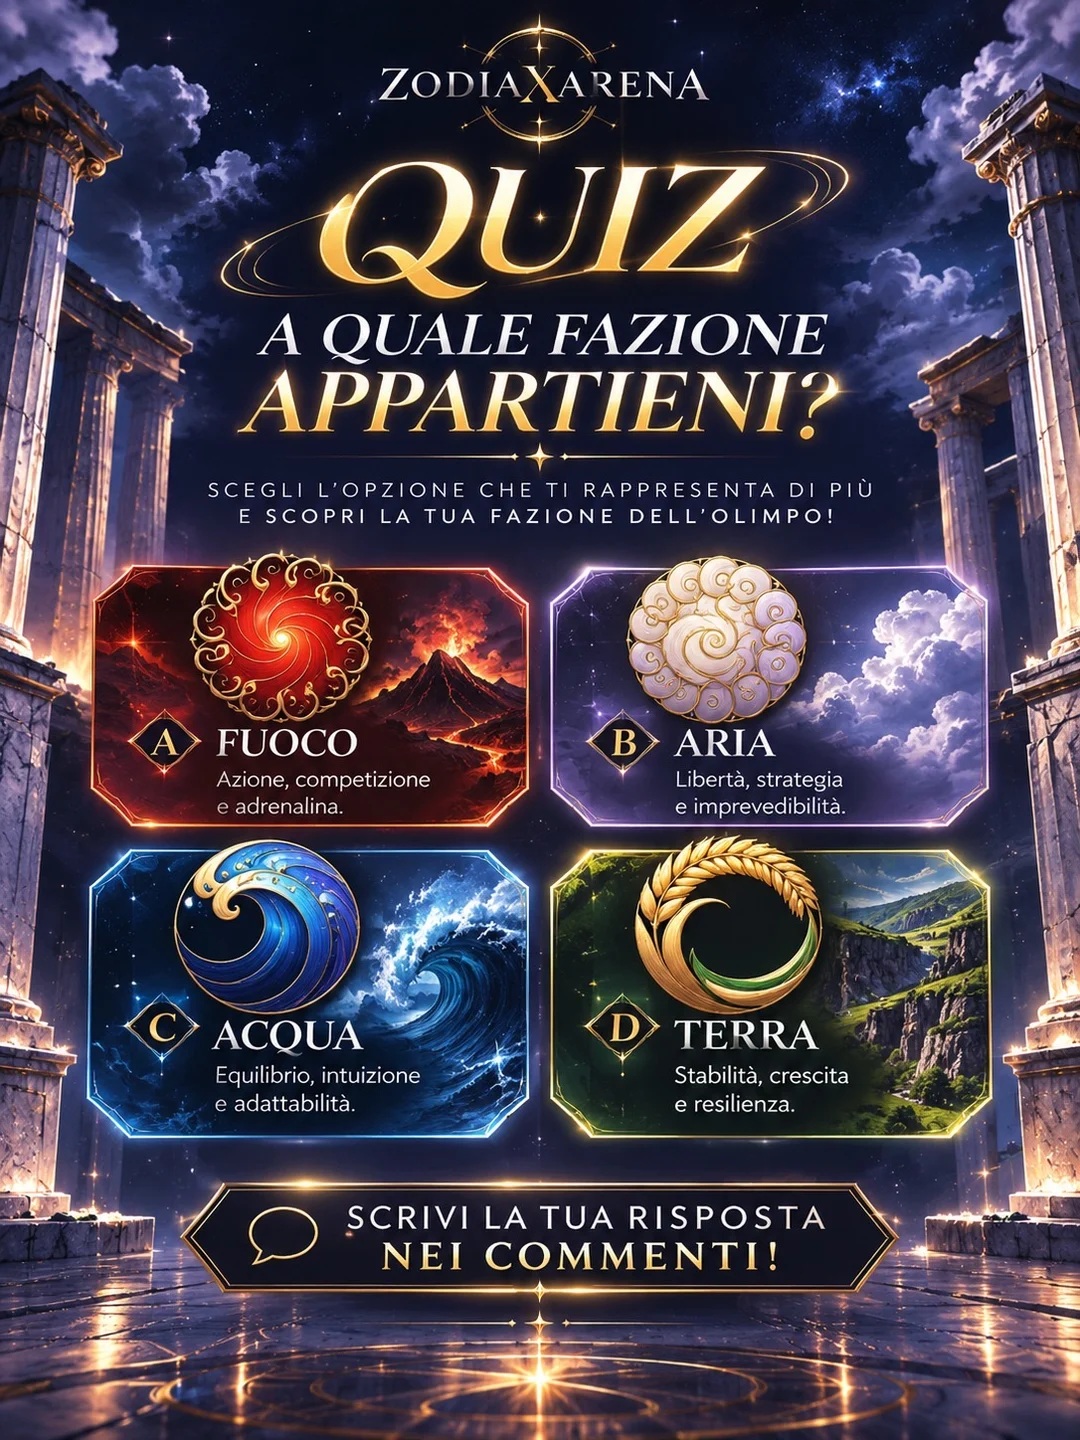
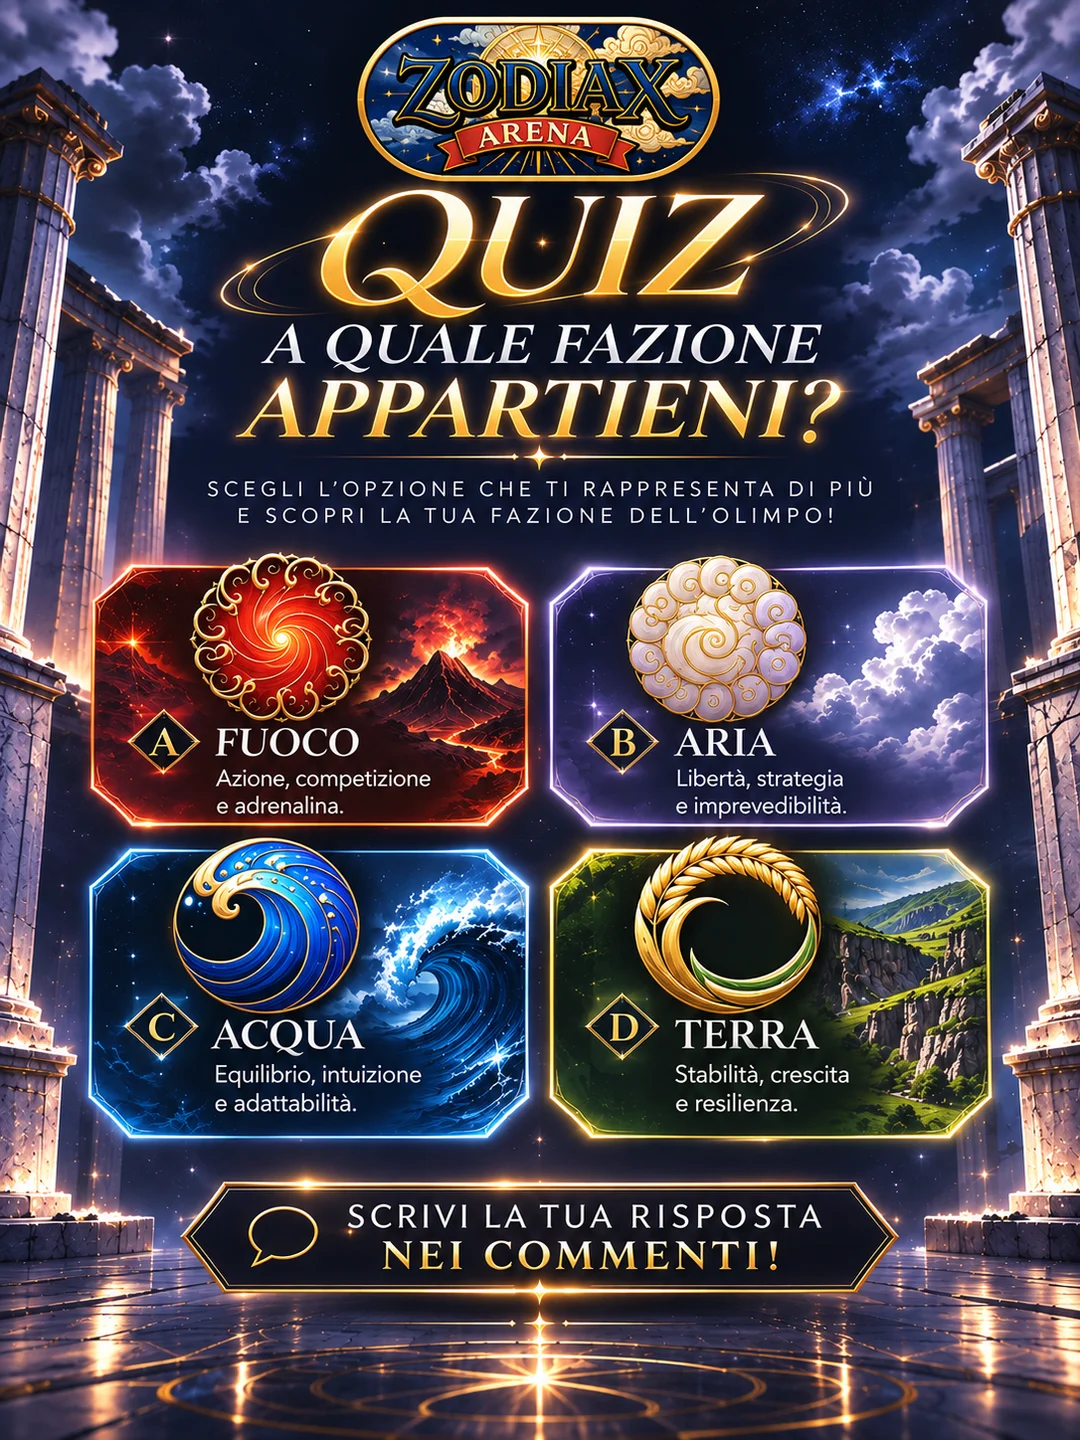
Campagna social: nuova immagine del post 3 (quiz)
Claude-Session: https://claude.ai/code/session_01Jq765wkk1zz2eb1Xe5MMsJ

diff --git a/campagna-social.html b/campagna-social.html
@@ -79,7 +79,7 @@ body{padding-top:70px}
 </li>
 <li>
 <h2><span>Post 3</span>Quiz</h2>
-<img src="img/campagna/post-3.webp" alt="Post 3: Quiz" width="1080" height="1440" loading="lazy" decoding="async">
+<img src="img/campagna/post-3.webp?v=2" alt="Post 3: Quiz" width="1080" height="1440" loading="lazy" decoding="async">
 </li>
 <li>
 <h2><span>Post 4</span>La collezione</h2>
